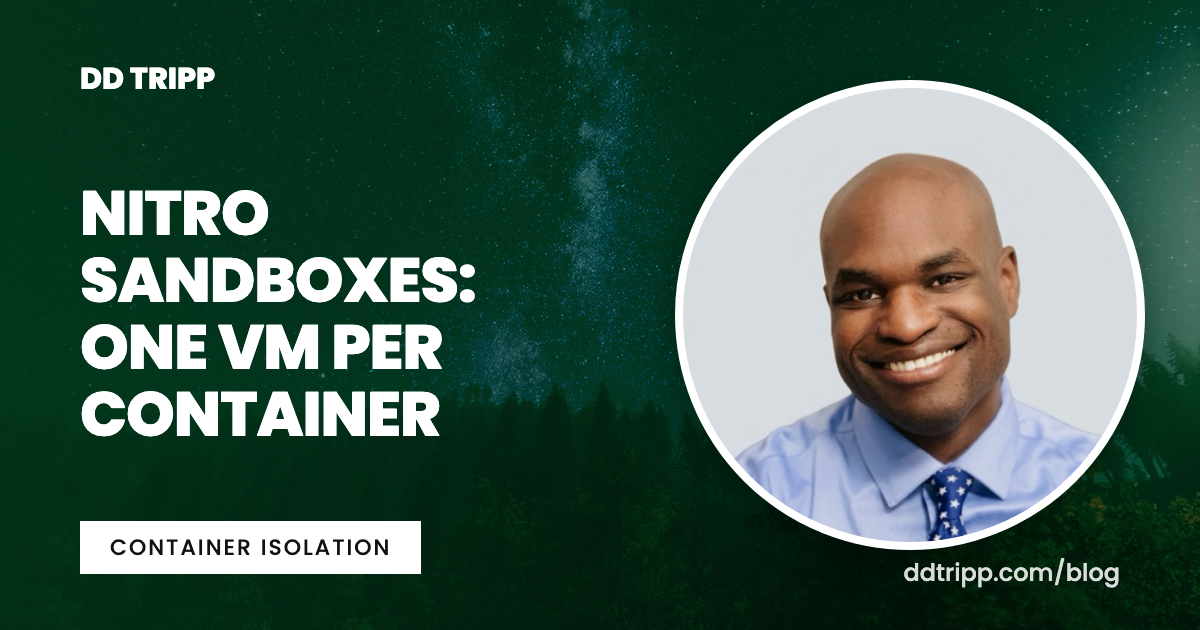
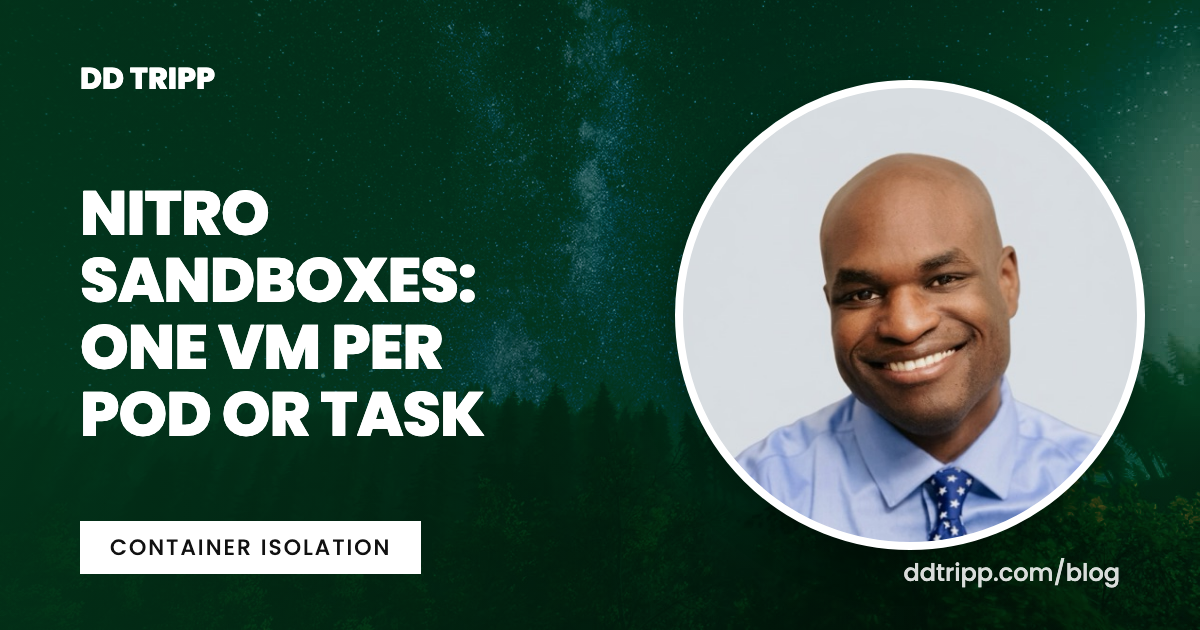
Nitro post: say pod or task, as the AWS source does, not container (#26)

Changed region(s): [[0.0617, 0.6032, 0.4008, 0.6937]]

diff --git a/src/content/blog/nitro-sandboxes-one-vm-per-container.md b/src/content/blog/nitro-sandboxes-one-vm-per-container.md
@@ -1,8 +1,8 @@
 ---
-title: "Nitro Sandboxes give each container its own VM, at no extra charge"
+title: "Nitro Sandboxes give each pod or task its own VM, at no extra charge"
 description: 'AWS says Nitro Sandboxes put each EKS pod or ECS task in its own hardware-isolated VM with its own kernel, without a separate instance per workload.'
 pubDate: 'Nov 11 2026 09:00'
-imageHeadline: 'Nitro Sandboxes: one VM per container'
+imageHeadline: 'Nitro Sandboxes: one VM per pod or task'
 imageTag: 'Container isolation'
 heroImage: '../../assets/post-images/nitro-sandboxes-one-vm-per-container.png'
 imageTheme: 'green'
